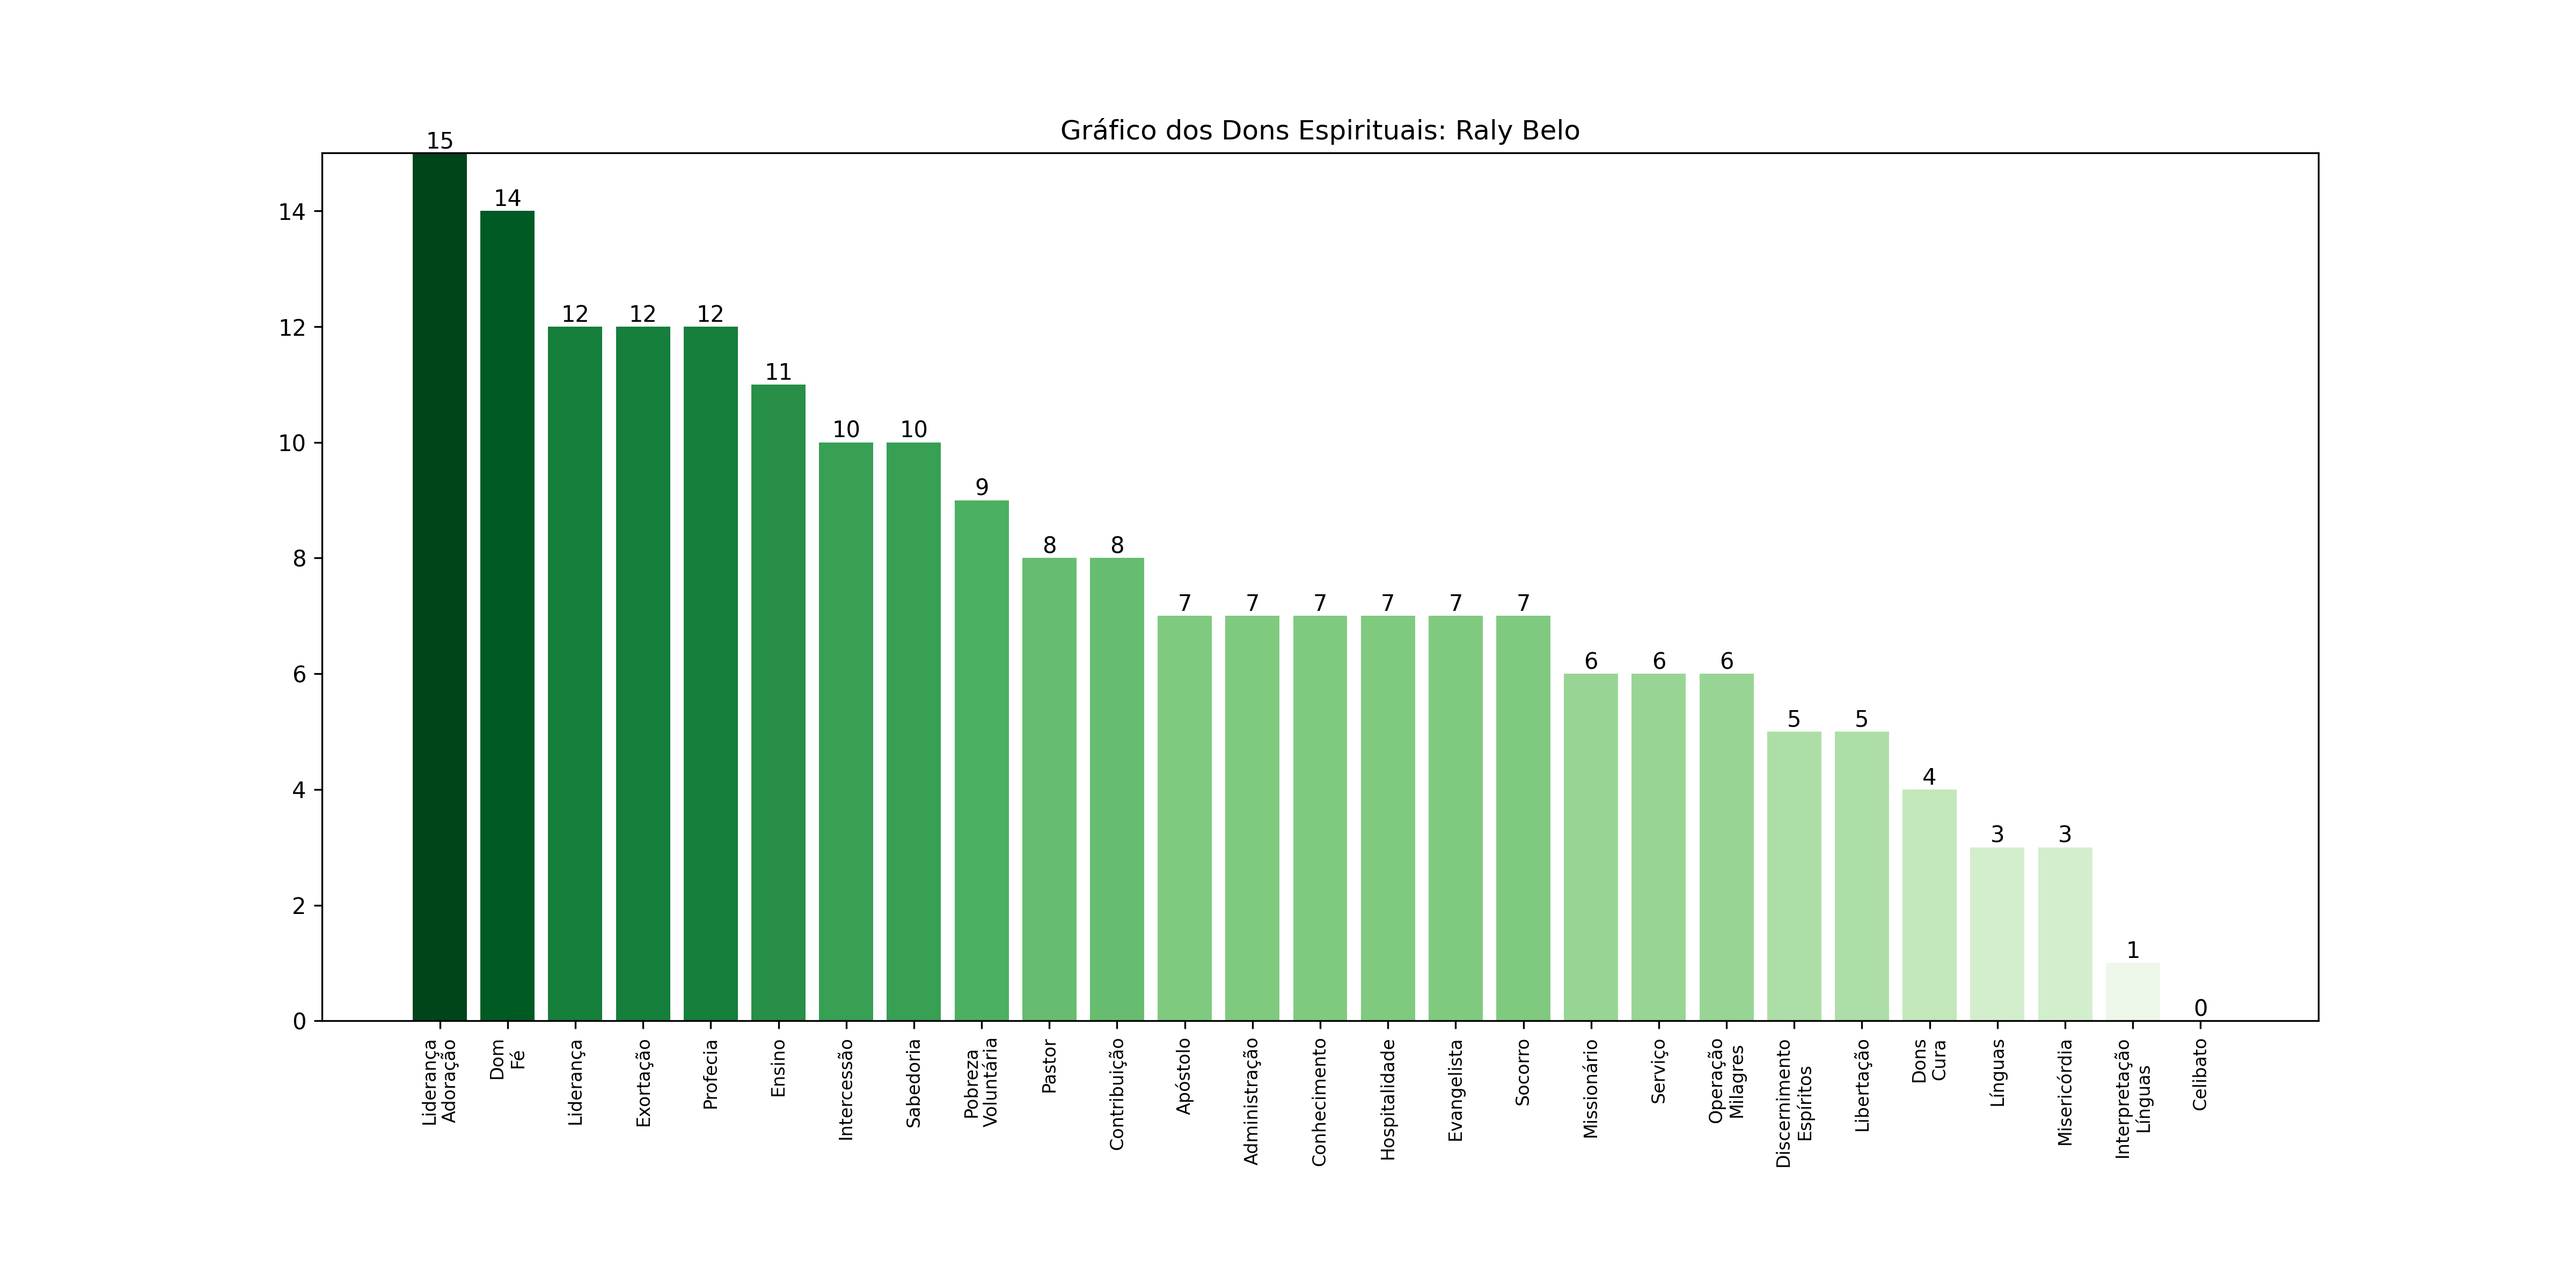
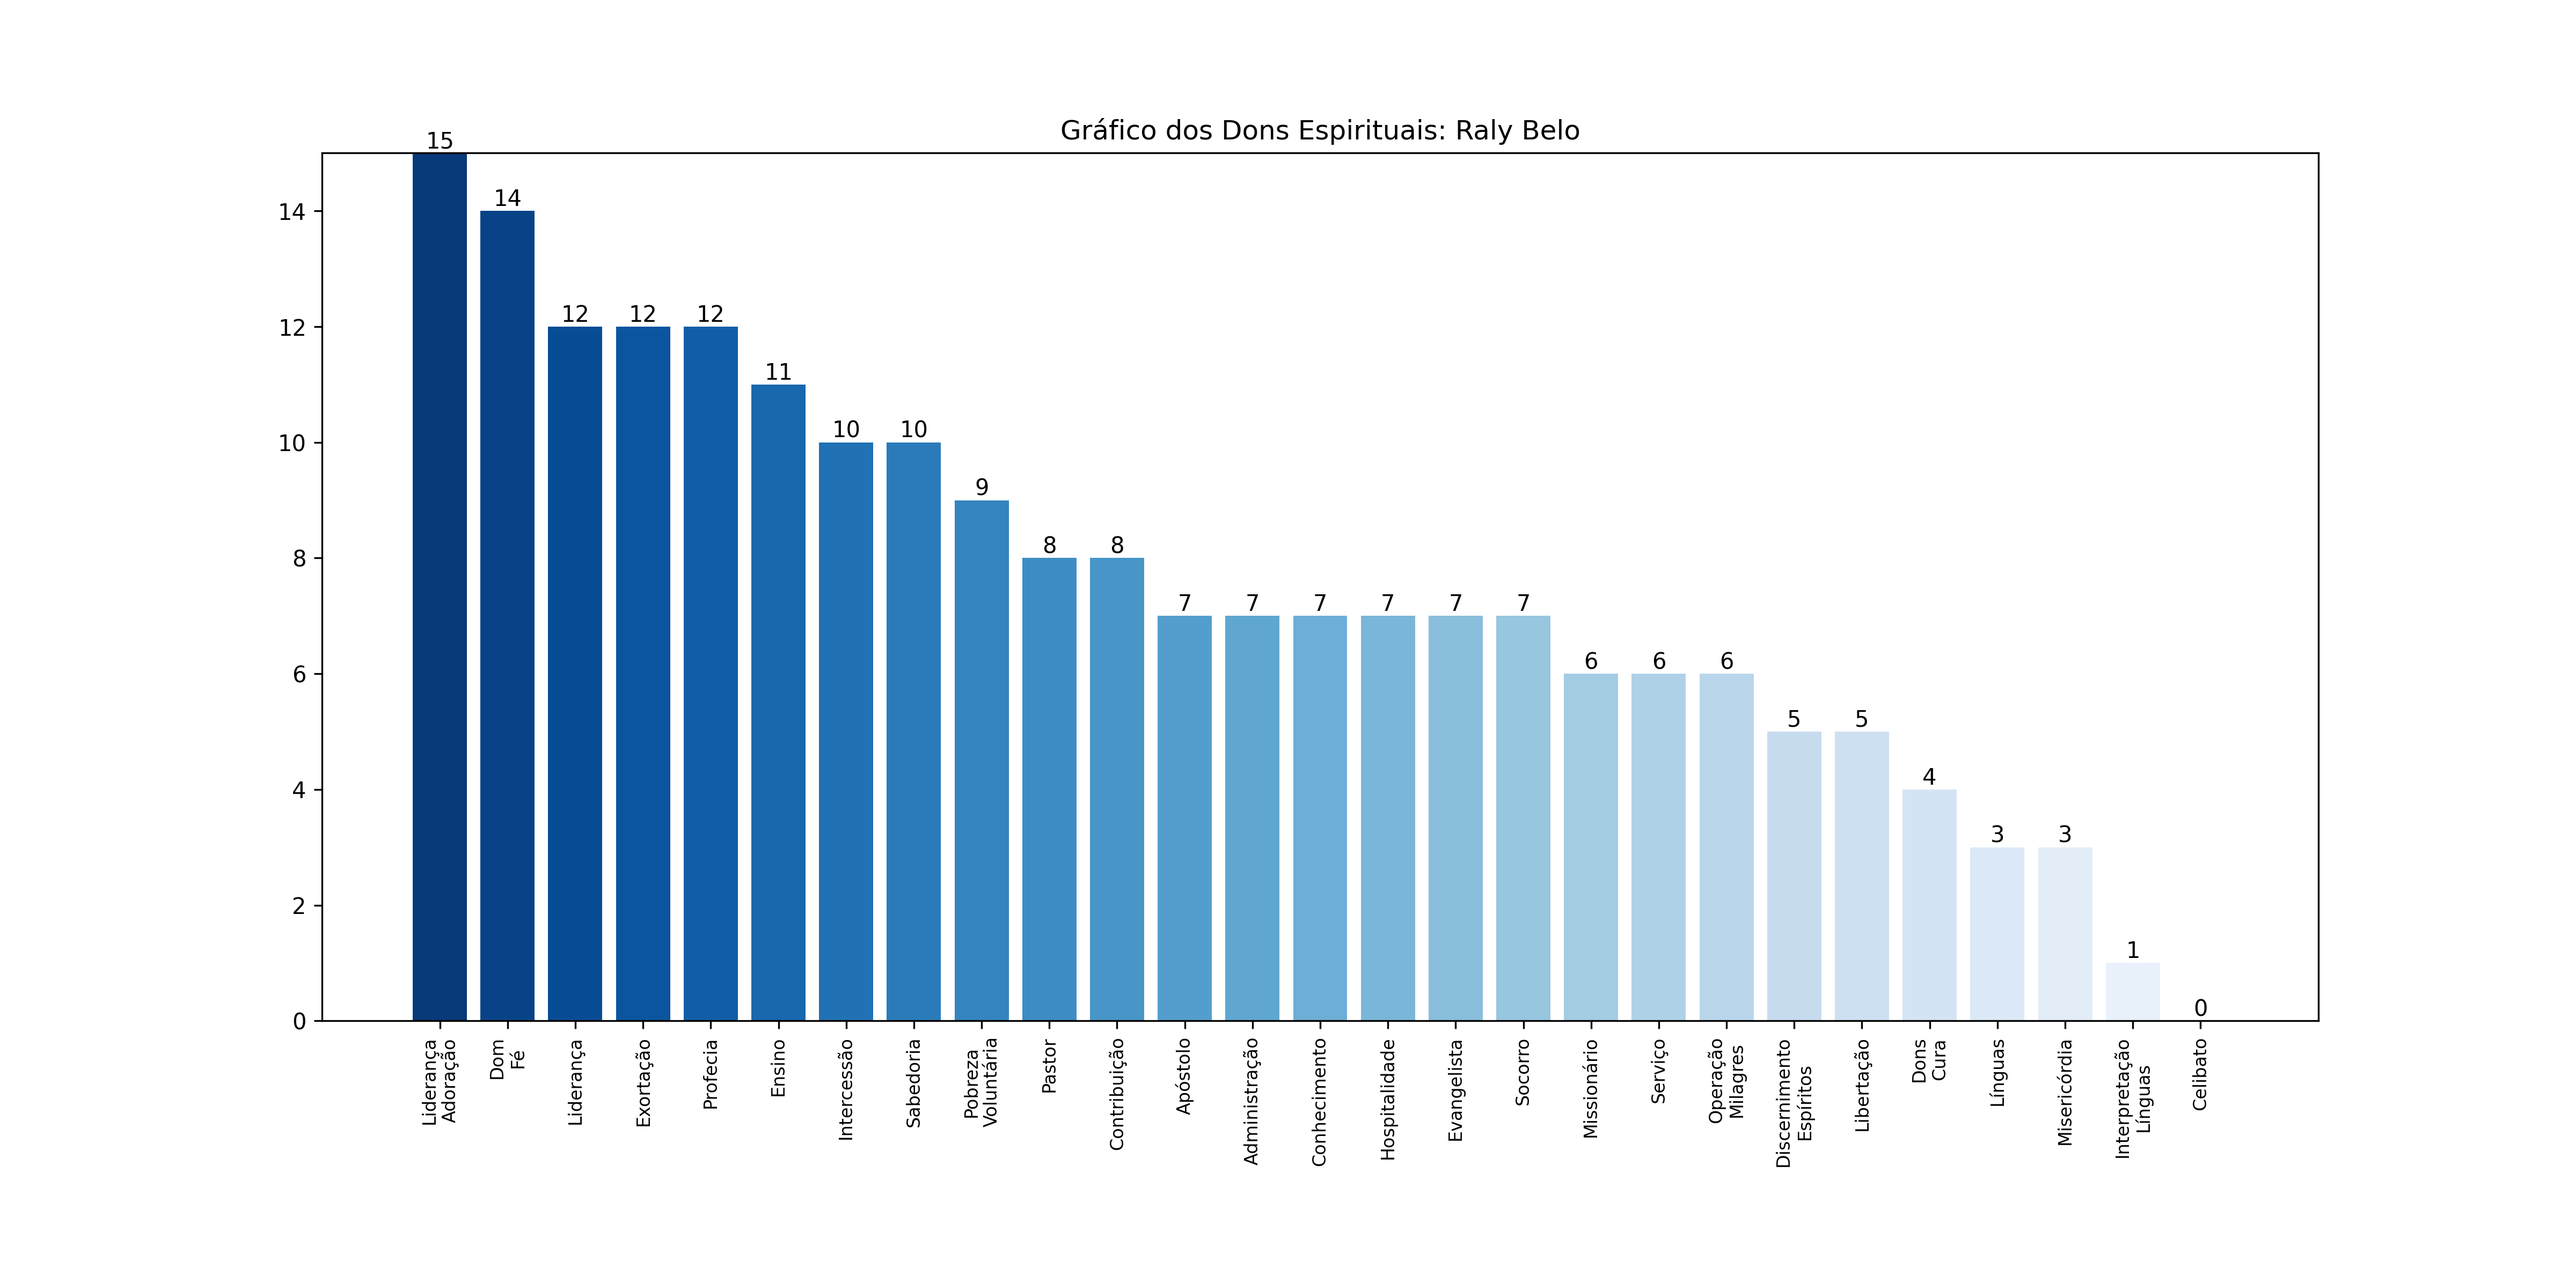
uso de seaborn

Changed region(s): [[0.1562, 0.1244, 0.8125, 0.8087]]

diff --git a/dons.py b/dons.py
@@ -1,6 +1,7 @@
 import pandas as pd
 import matplotlib.pyplot as plt
 import os
+import seaborn as sns
 
 # Ler o arquivo CSV
 df = pd.read_csv("dons.csv", index_col=0)
@@ -18,12 +19,11 @@ for index, row in df.iterrows():
     fig, ax = plt.subplots()
 
     # Criar o mapa de cores
-    color_map = plt.cm.get_cmap('Greens')
-    norm = plt.Normalize(vmin=0, vmax=max(values_sorted.values))
-    
+    palette = sns.color_palette("Blues_r", len(values_sorted))
+
     # Atribuir uma cor a cada barra com base no seu valor
-    colors = [color_map(norm(value)) for value in values_sorted.values]
-    ax.bar(values_sorted.index, values_sorted.values, color=colors)    
+    colors = [palette[i] for i in range(len(values_sorted))]
+    ax.bar(values_sorted.index, values_sorted.values, color=colors)
 
     ax.set_ylim((0, 15))  # define o limite máximo de cada gráfico
 
